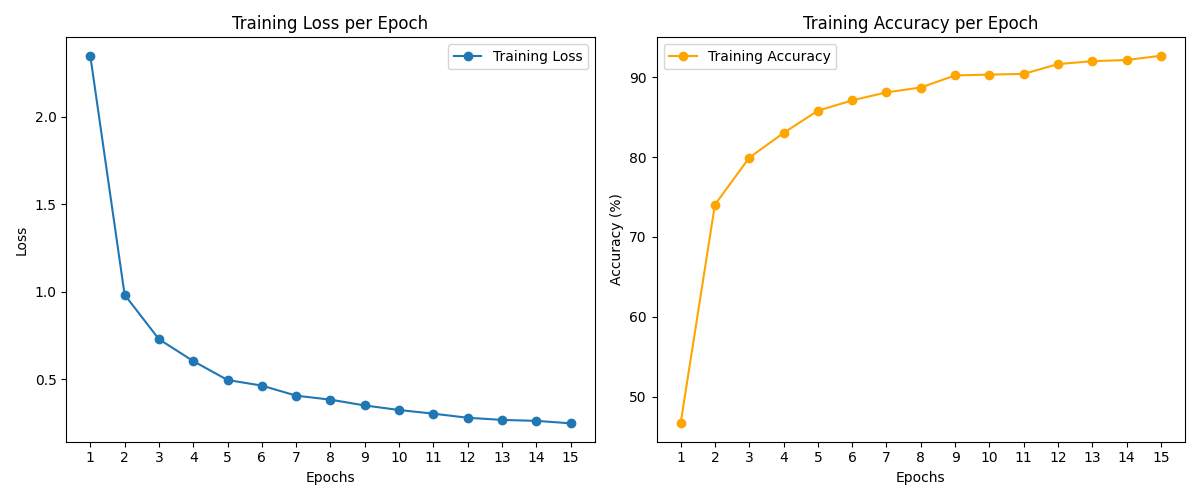
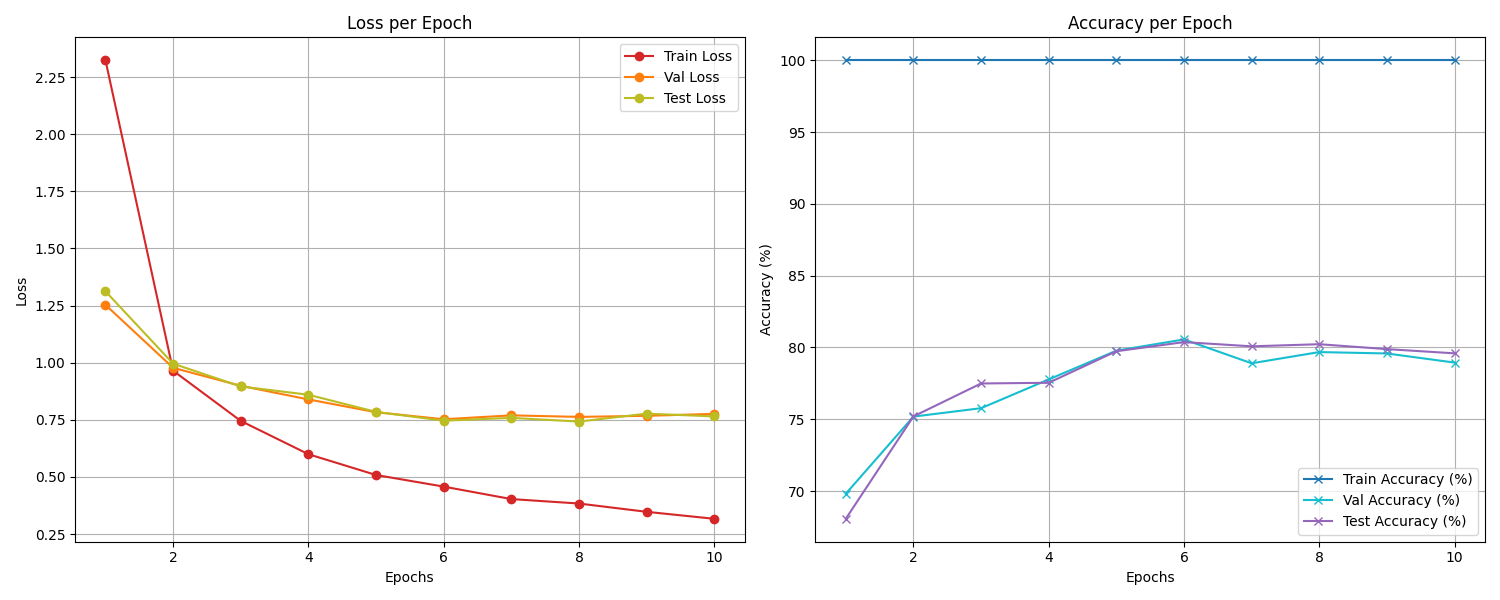
added vgg metrics

diff --git a/vgg19/vgg19_plot.py b/vgg19/vgg19_plot.py
@@ -1,163 +1,43 @@
-import os
-import torch
-import torchvision.transforms as transforms
-from torchvision import models
-from torch import nn, optim
-from torch.utils.data import Dataset, DataLoader
-from PIL import Image
-from tqdm import tqdm
 import pandas as pd
 import matplotlib.pyplot as plt
 
-# Custom Dataset
-class CustomImageDataset(Dataset):
-    def __init__(self, image_dir, label_dir, transform=None):
-        self.image_dir = image_dir
-        self.label_dir = label_dir
-        self.transform = transform
-        self.image_filenames = os.listdir(image_dir)
+# Load the data from the CSV file
+df = pd.read_csv('vgg_training_metrics.csv')
 
-    def __len__(self):
-        return len(self.image_filenames)
+# Extract data from the DataFrame
+epochs = df['Epoch']
+train_loss = df['Train Loss']
+val_loss = df['Val Loss']
+test_loss = df['Test Loss']
+train_accuracy = df['Train Accuracy (%)']
+val_accuracy = df['Val Accuracy (%)']
+test_accuracy = df['Test Accuracy (%)']
 
-    def __getitem__(self, idx):
-        img_name = os.path.join(self.image_dir, self.image_filenames[idx])
-        image = Image.open(img_name).convert("RGB")
-        
-        # Read the corresponding label from the text file
-        label_name = os.path.splitext(self.image_filenames[idx])[0] + '.txt'
-        label_path = os.path.join(self.label_dir, label_name)
-        with open(label_path, 'r') as f:
-            label = int(f.readline().strip())
 
-        if self.transform:
-            image = self.transform(image)
-
-        return image, label-1
-
-# Hyperparameters
-batch_size = 32
-num_classes = 102 
-num_epochs = 15
-learning_rate = 0.001
-
-# Transformations
-transform = transforms.Compose([
-    transforms.Resize((224, 224)),
-    transforms.ToTensor(),
-    transforms.Normalize(mean=[0.485, 0.456, 0.406], std=[0.229, 0.224, 0.225])
-])
-
-# Load the datasets
-train_dataset = CustomImageDataset(
-    image_dir='data/images/train',
-    label_dir='data/labels/train',
-    transform=transform
-)
-train_loader = DataLoader(train_dataset, batch_size=batch_size, shuffle=True)
-
-val_dataset = CustomImageDataset(
-    image_dir='data/images/val',
-    label_dir='data/labels/val',
-    transform=transform
-)
-val_loader = DataLoader(val_dataset, batch_size=batch_size, shuffle=False)
-
-# Load pre-trained VGG19 model
-model = models.vgg19(pretrained=True)
-
-# Freeze parameters
-for param in model.parameters():
-    param.requires_grad = False
-
-# Modify the classifier
-model.classifier[6] = nn.Linear(4096, num_classes)
-
-# Move model to GPU if available
-device = torch.device("cuda" if torch.cuda.is_available() else "cpu")
-model = model.to(device)
-
-# Loss and optimizer
-criterion = nn.CrossEntropyLoss()
-optimizer = optim.Adam(model.classifier.parameters(), lr=learning_rate)
-
-train_loss_per_epoch = []
-train_accuracy_per_epoch = []
-
-# Training loop
-for epoch in range(num_epochs):
-    model.train()
-    running_loss = 0.0
-    correct = 0
-    total = 0
-    
-    for images, labels in tqdm(train_loader):
-        images, labels = images.to(device), labels.to(device)
-        
-        optimizer.zero_grad()
-        outputs = model(images)
-        loss = criterion(outputs, labels)
-        
-        loss.backward()
-        optimizer.step()
-        
-        running_loss += loss.item()
-        
-        _, predicted = torch.max(outputs.data, 1)
-        total += labels.size(0)
-        correct += (predicted == labels).sum().item()
-
-    epoch_loss = running_loss / len(train_loader)
-    epoch_accuracy = 100 * correct / total
-    train_loss_per_epoch.append(epoch_loss)
-    train_accuracy_per_epoch.append(epoch_accuracy)
-
-    print(f"Epoch [{epoch+1}/{num_epochs}], Loss: {epoch_loss:.4f}, Accuracy: {epoch_accuracy:.2f}%")
-
-# Save loss and accuracy to CSV
-results_df = pd.DataFrame({'Epoch': range(1, num_epochs + 1), 
-                            'Loss': train_loss_per_epoch, 
-                            'Accuracy': train_accuracy_per_epoch})
-results_df.to_csv("training_results.csv", index=False)
-
-# Validation loop
-model.eval()
-correct = 0
-total = 0
-with torch.no_grad():
-    for images, labels in val_loader:
-        images, labels = images.to(device), labels.to(device)
-        outputs = model(images)
-        _, predicted = torch.max(outputs.data, 1)
-        total += labels.size(0)
-        correct += (predicted == labels).sum().item()
-
-print(f'Accuracy of the model on the validation set: {100 * correct / total:.2f}%')
-
-# Save the model
-torch.save(model.state_dict(), 'vgg19_transfer_learning.pth')
-
-# Plotting the training loss and accuracy per epoch
-plt.figure(figsize=(12, 5))
+# Create a figure with two subplots (1 row, 2 columns)
+fig, (ax1, ax2) = plt.subplots(1, 2, figsize=(15, 6))
 
 # Plot Loss
-plt.subplot(1, 2, 1)
-plt.plot(range(1, num_epochs + 1), train_loss_per_epoch, marker='o', label='Training Loss')
-plt.xlabel('Epochs')
-plt.ylabel('Loss')
-plt.title('Training Loss per Epoch')
-plt.xticks(range(1, num_epochs + 1))
-plt.legend()
+ax1.set_title('Loss per Epoch')
+ax1.set_xlabel('Epochs')
+ax1.set_ylabel('Loss')
+ax1.plot(epochs, train_loss, label='Train Loss', color='tab:red', marker='o')
+ax1.plot(epochs, val_loss, label='Val Loss', color='tab:orange', marker='o')
+ax1.plot(epochs, test_loss, label='Test Loss', color='tab:olive', marker='o')
+ax1.legend()
+ax1.grid()
 
 # Plot Accuracy
-plt.subplot(1, 2, 2)
-plt.plot(range(1, num_epochs + 1), train_accuracy_per_epoch, marker='o', color='orange', label='Training Accuracy')
-plt.xlabel('Epochs')
-plt.ylabel('Accuracy (%)')
-plt.title('Training Accuracy per Epoch')
-plt.xticks(range(1, num_epochs + 1))
-plt.legend()
+ax2.set_title('Accuracy per Epoch')
+ax2.set_xlabel('Epochs')
+ax2.set_ylabel('Accuracy (%)')
+ax2.plot(epochs, train_accuracy, label='Train Accuracy (%)', color='tab:blue', marker='x')
+ax2.plot(epochs, val_accuracy, label='Val Accuracy (%)', color='tab:cyan', marker='x')
+ax2.plot(epochs, test_accuracy, label='Test Accuracy (%)',color='tab:purple', marker='x')
+ax2.legend()
+ax2.grid()
 
+# Show the plots
 plt.tight_layout()
-plt.savefig("training_plots.png")
+plt.savefig("outputs/yolov5_training_plots_final.png")
 plt.show()

diff --git a/vgg19/vgg19.py b/vgg19/vgg19.py
@@ -49,18 +49,25 @@ transform = transforms.Compose([
 
 # Load the datasets
 train_dataset = CustomImageDataset(
-    image_dir='data/images/train',
-    label_dir='data/labels/train',
+    image_dir='vgg_data/images/train',
+    label_dir='vgg_data/labels/train',
     transform=transform
 )
 train_loader = DataLoader(train_dataset, batch_size=batch_size, shuffle=True)
 
 val_dataset = CustomImageDataset(
-    image_dir='data/images/val',
-    label_dir='data/labels/val',
+    image_dir='vgg_data/images/val',
+    label_dir='vgg_data/labels/val',
     transform=transform
 )
 val_loader = DataLoader(val_dataset, batch_size=batch_size, shuffle=False)
+
+test_dataset = CustomImageDataset(
+    image_dir='vgg_data/images/test',
+    label_dir='vgg_data/labels/test',
+    transform=transform
+)
+test_loader = DataLoader(test_dataset, batch_size=batch_size, shuffle=False)
 
 # Load pre-trained VGG19 model
 model = models.vgg19(pretrained=True)
@@ -80,10 +87,20 @@ model = model.to(device)
 criterion = nn.CrossEntropyLoss()
 optimizer = optim.Adam(model.classifier.parameters(), lr=learning_rate)
 
-train_loss = []# Training loop
+train_loss = []
+train_accuracy = []
+val_loss = []
+val_accuracy = []
+test_loss = []
+test_accuracy = []
+
 for epoch in range(num_epochs):
+    # Training loop
+    total_train = 0
+    correct_train = 0
     model.train()
     running_loss = 0.0
+    print(f"Train Number {epoch+1}")
     for images, labels in tqdm(train_loader):
         images, labels = images.to(device), labels.to(device)
         
@@ -94,27 +111,64 @@ for epoch in range(num_epochs):
         loss.backward()
         optimizer.step()
         
-        running_loss += loss.item()
-        train_loss.append(running_loss/len(train_loader))
-
-    
-    print(f"Epoch [{epoch+1}/{num_epochs}], Loss: {running_loss/len(train_loader):.4f}")
-pd.DataFrame(train_loss).to_csv("training_loss.csv")
-
-
-# Validation loop
-model.eval()
-correct = 0
-total = 0
-with torch.no_grad():
-    for images, labels in val_loader:
-        images, labels = images.to(device), labels.to(device)
-        outputs = model(images)
         _, predicted = torch.max(outputs.data, 1)
-        total += labels.size(0)
-        correct += (predicted == labels).sum().item()
+        total_train += labels.size(0)
+        correct_train += (predicted == labels).sum().item()
+        
+        running_loss += loss.item()
+    
+    train_loss.append(running_loss / len(train_loader))
+    train_accuracy.append(100 * correct_train / correct_train)
 
-print(f'Accuracy of the model on the validation set: {100 * correct / total:.2f}%')
+    # Validation + test loop
+    model.eval()
+    running_val_loss = 0.0
+    running_test_loss = 0.0
+    correct_val = 0
+    correct_test = 0
+    total_val = 0
+    total_test = 0
+    with torch.no_grad():
+        print(f"Val Number {epoch+1}")
+        for images, labels in tqdm(val_loader):
+            images, labels = images.to(device), labels.to(device)
+            outputs = model(images)
+            loss = criterion(outputs, labels)
+            running_val_loss += loss.item()
+            
+            _, predicted = torch.max(outputs.data, 1)
+            total_val += labels.size(0)
+            correct_val += (predicted == labels).sum().item()
+        print(f"Test Number {epoch+1}")
+        for images, labels in tqdm(test_loader):
+            images, labels = images.to(device), labels.to(device)
+            outputs = model(images)
+            loss = criterion(outputs, labels)
+            running_test_loss += loss.item()
+            
+            _, predicted = torch.max(outputs.data, 1)
+            total_test += labels.size(0)
+            correct_test += (predicted == labels).sum().item()
+        
+    val_loss.append(running_val_loss / len(val_loader))
+    val_accuracy.append(100 * correct_val / total_val)
+    test_loss.append(running_test_loss / len(test_loader))
+    test_accuracy.append(100 * correct_test / total_test)
+    
+    
+    print(f"Epoch [{epoch+1}/{num_epochs}] | Train Loss: {train_loss[-1]:.4f} | Train Accuracy: {train_accuracy[-1]:.2f}% | Val Loss: {val_loss[-1]:.4f} | Val Accuracy: {val_accuracy[-1]:.2f}% | Test Loss: {test_loss[-1]:.4f} | Test Accuracy: {test_accuracy[-1]:.2f}%")
+
+# Save metrics to CSV
+metrics_df = pd.DataFrame({
+    'Epoch': list(range(1, num_epochs + 1)),
+    'Train Loss': train_loss,
+    'Train Accuracy (%)': train_accuracy,
+    'Val Loss': val_loss,
+    'Val Accuracy (%)': val_accuracy,
+    'Test Loss': test_loss,
+    'Test Accuracy (%)': test_accuracy
+})
+metrics_df.to_csv("vgg_training_metrics.csv", index=False)
 
 # Save the model
-torch.save(model.state_dict(), 'vgg19_transfer_learning.pth') #val acc: 80.17%
+torch.save(model.state_dict(), 'vgg19_transfer_learning.pth')
